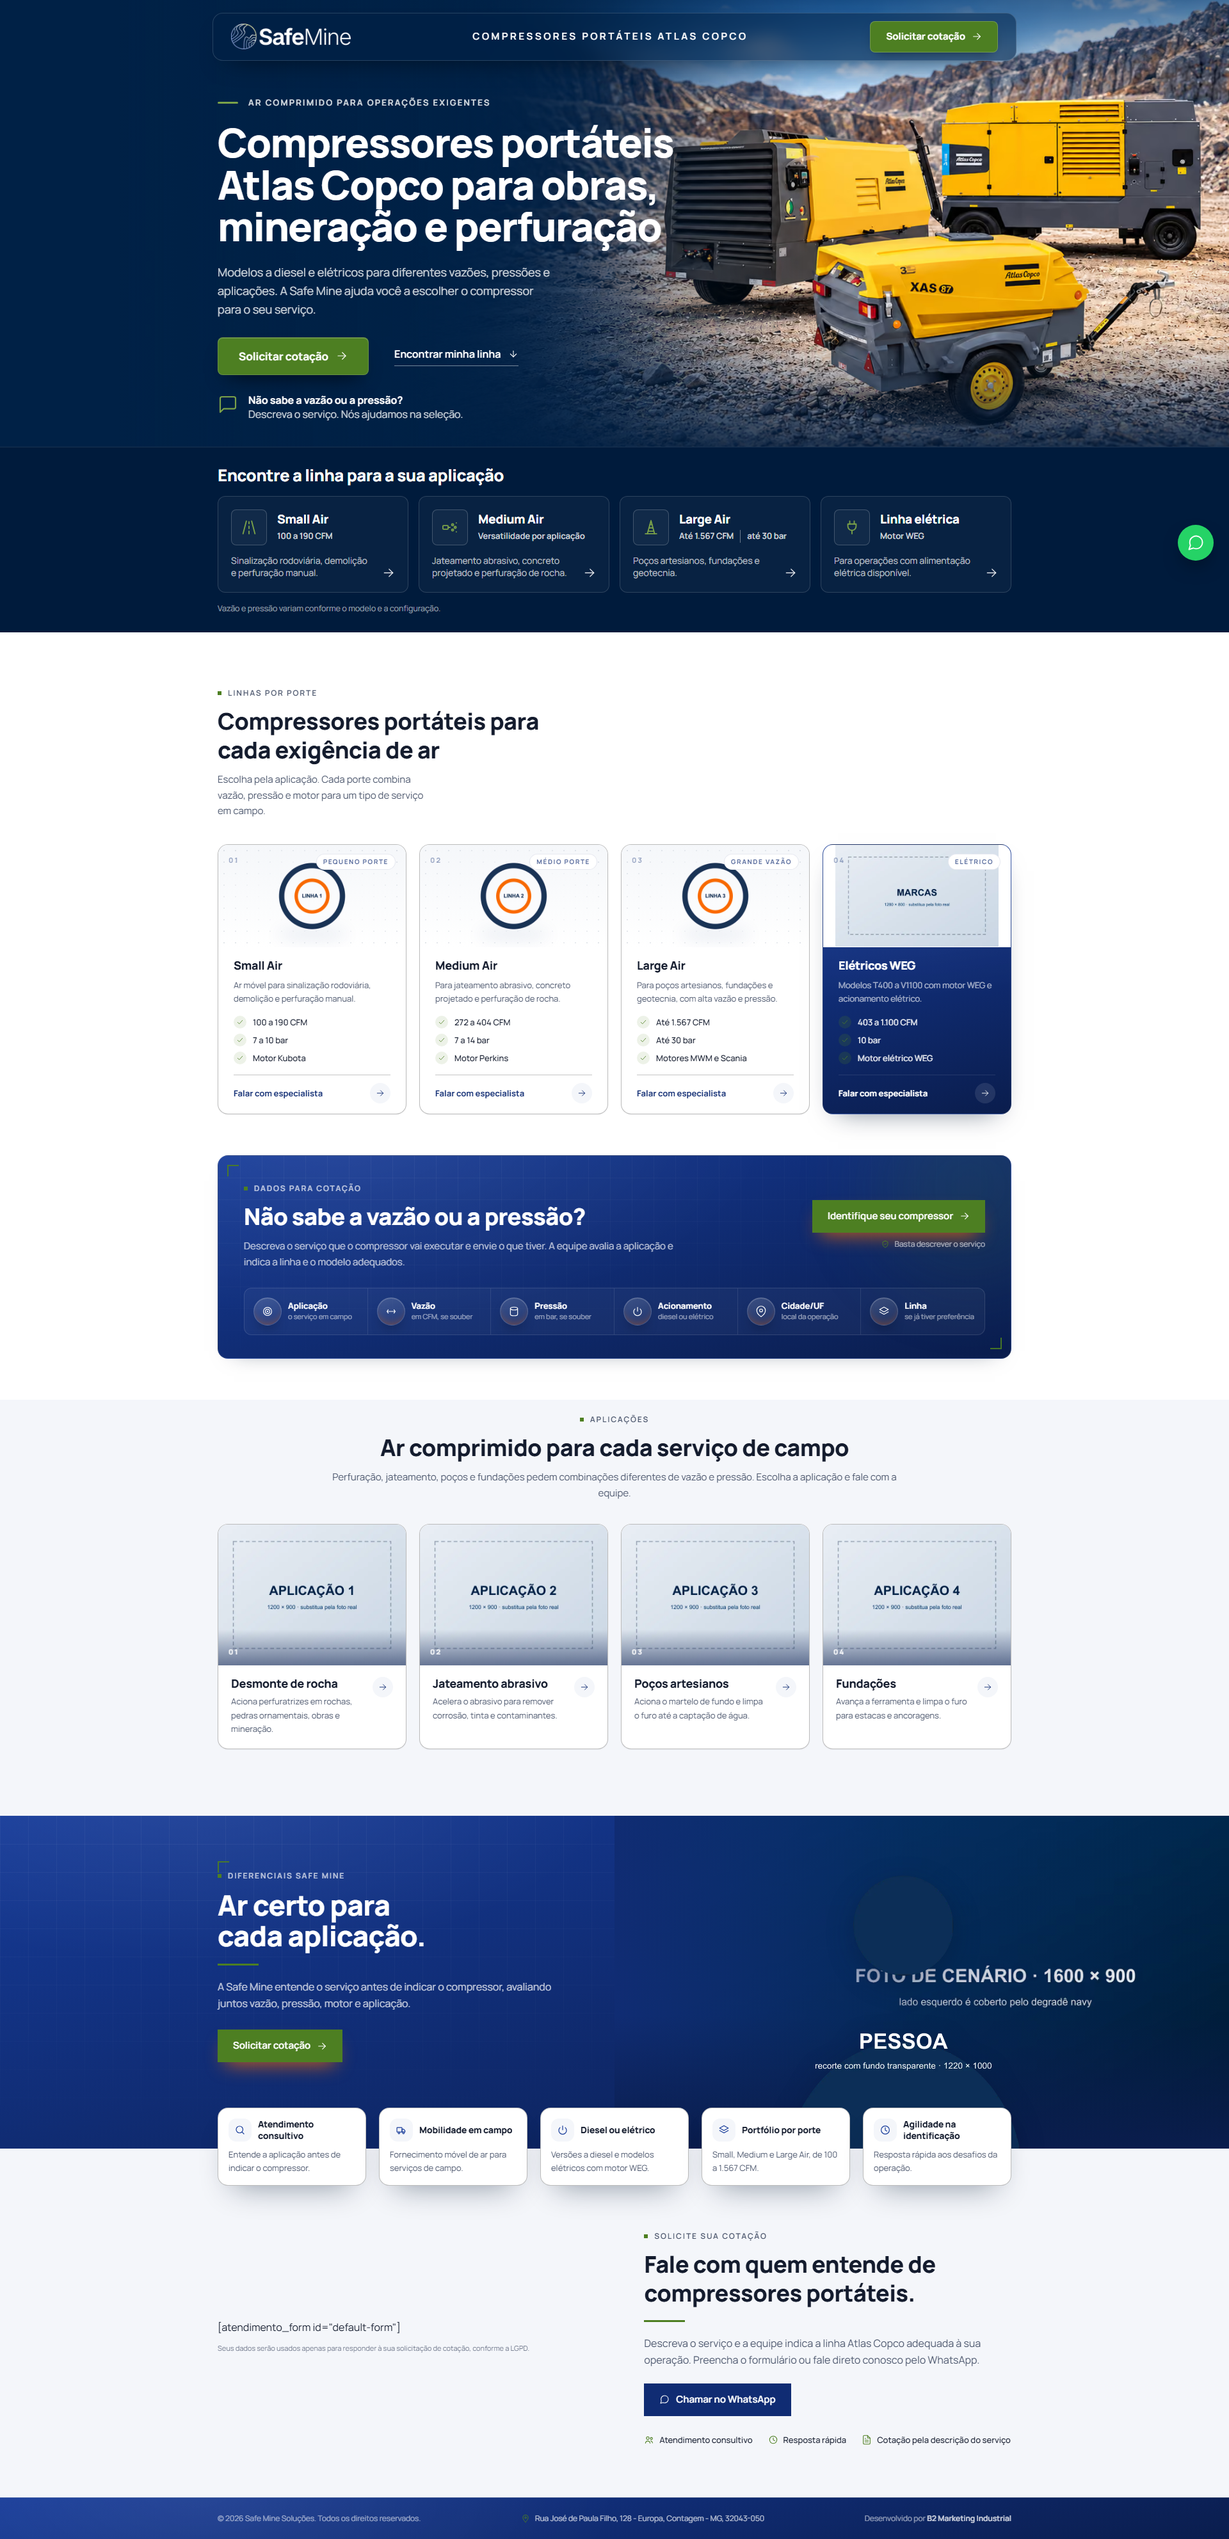
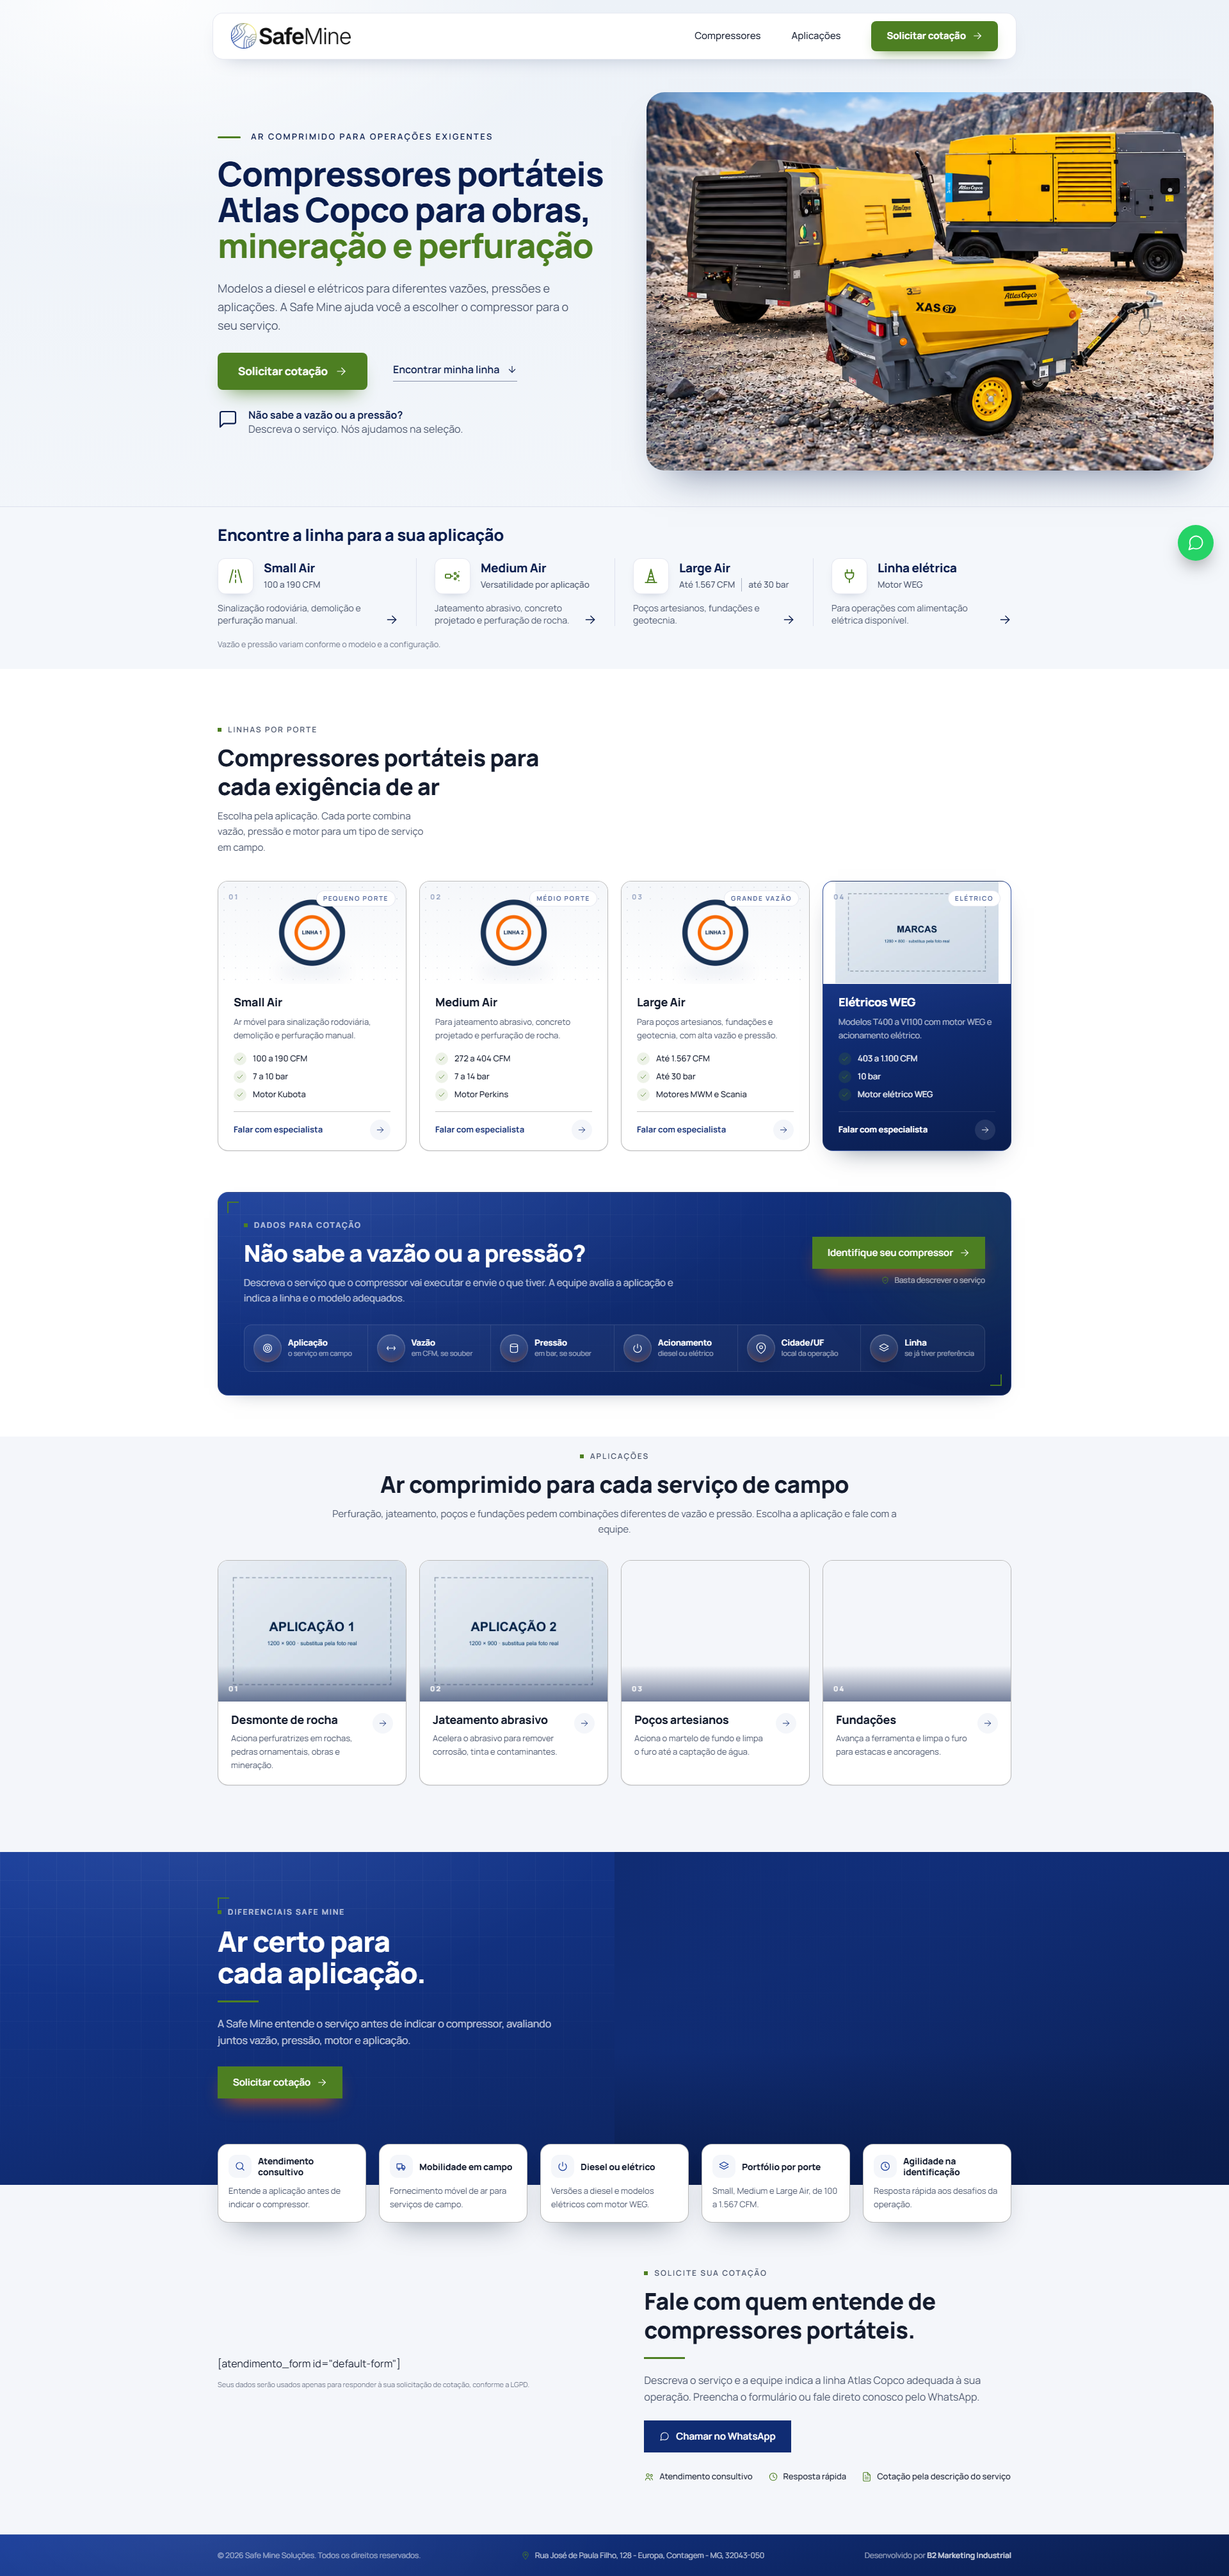
feat: topo da LP no tema claro do segundo mockup
Barra branca fixa com logo colorido, âncoras Compressores e Aplicações e CTA verde;
hero claro em duas colunas, com "mineração e perfuração" em verde no H1 e a foto
dos compressores em card arredondado (recorte do banner, sem o degradê navy);
faixa de linhas com divisórias. Preload do Layout com as larguras do card.
Desvio de estrutura fixa atualizado em docs/BRIEFING.md.

diff --git a/src/data/content.ts b/src/data/content.ts
@@ -47,7 +47,11 @@ export const cta = {
 /* ------------------------------------------------------------------ header */
 
 export const header = {
-  tagline: site.product,
+  /** Âncoras da barra (desvio do padrão, pedido no mockup de 29/10): rolam até as seções. */
+  nav: [
+    { id: 'compressores', label: 'Compressores', href: '#linhas' },
+    { id: 'aplicacoes', label: 'Aplicações', href: '#aplicacoes' },
+  ],
 } as const
 
 /* -------------------------------------------------------------------- hero */
@@ -55,10 +59,15 @@ export const header = {
 export const hero = {
   eyebrow: 'Ar comprimido para operações exigentes',
   title: `${site.product} para ${site.context}`,
+  /** Trecho do H1 em verde. */
+  highlight: 'mineração e perfuração',
   text: 'Modelos a diesel e elétricos para diferentes vazões, pressões e aplicações. A Safe Mine ajuda você a escolher o compressor para o seu serviço.',
   banner: {
     src: heroBg,
     alt: 'Compressores portáteis Atlas Copco em área de mineração',
+    /** Larguras geradas: as mesmas no <Picture> do Hero e no preload do Layout. */
+    widths: [480, 768, 1020],
+    sizes: '(min-width: 1024px) 46vw, 100vw',
   },
   help: {
     title: 'Não sabe a vazão ou a pressão?',
@@ -102,7 +111,8 @@ export const hero = {
   eyebrow: string
   title: string
   text: string
-  banner: Photo
+  highlight: string
+  banner: Photo & { widths: readonly number[]; sizes: string }
   help: { title: string; text: string }
   lines: {
     title: string

diff --git a/docs/BRIEFING.md b/docs/BRIEFING.md
@@ -100,10 +100,11 @@ Derivada em: 29/10/2026 · comando aplicado: `npm run compose -- linhas identifi
 
 ## Assets
 
-| Asset          | Arquivo esperado        | Especificação               | Status                                                                   |
-| -------------- | ----------------------- | --------------------------- | ------------------------------------------------------------------------ |
-| Logo           | `src/assets/LOGO.png`   | 240×200, fundo transparente | entregue — o mesmo da LP SEIVE (site da Safe Mine); usado no og:image    |
-| Banner do hero | `src/assets/heroBg.png` | 1981×891                    | entregue em 29/10 com o mockup (1870×841, ampliado para 1981 de largura) |
+| Asset         | Arquivo esperado                 | Especificação               | Status                                                                |
+| ------------- | -------------------------------- | --------------------------- | --------------------------------------------------------------------- |
+| Logo          | `src/assets/LOGO.png`            | 240×200, fundo transparente | entregue — o mesmo da LP SEIVE (site da Safe Mine); usado no og:image |
+| Logo da barra | `src/assets/marca-safe-mine.png` | 841×180, fundo transparente | recortado do logo do site da Safe Mine (8000×2081)                    |
+| Foto do hero  | `src/assets/heroBg.png`          | 1020×721 (card)             | recorte do banner entregue em 29/10 com o mockup                      |
 
 | Asset                       | Arquivo esperado                             | Especificação                 | Status                                     |
 | --------------------------- | -------------------------------------------- | ----------------------------- | ------------------------------------------ |
@@ -132,13 +133,15 @@ As fotos de produto e de aplicação citadas no briefing estão no PPT "Atlas Co
 
 ## Desvio de estrutura fixa — Header e Hero
 
-Em 29/10/2026 o topo da página foi refeito a partir do mockup enviado pela B2, no lugar do Header e do Hero do padrão (itens 4.1.1 e 4.1.2):
+Em 29/10/2026 o topo da página foi refeito a partir do mockup enviado pela B2 (segunda versão, tema claro), no lugar do Header e do Hero do padrão (itens 4.1.1 e 4.1.2):
 
-- **Header**: barra flutuante translúcida e fixa, com logo claro (`LOGO-light.png`), tagline central a partir de 1024 px e CTA verde "Solicitar cotação". A placa branca do logo saiu.
-- **Hero**: banner em largura total ancorado à direita, com fundo navy #002146 (a cor do lado esquerdo do banner); H1 no plural; link "Encontrar minha linha" que rola até `#linhas` (`data-cta="hero-secondary"`); bloco "Não sabe a vazão ou a pressão?"; e a faixa "Encontre a linha para a sua aplicação", com um card-CTA por linha (`hero-linha-small-air`, `hero-linha-medium-air`, `hero-linha-large-air`, `hero-linha-eletricos`).
+- **Header**: barra branca flutuante e fixa, com logo colorido (`marca-safe-mine.png`, recortado do logo do site), âncoras "Compressores" (`#linhas`) e "Aplicações" (`#aplicacoes`) e CTA verde "Solicitar cotação". Sem tagline nem placa do logo; o padrão proíbe menu, e o mockup o pede.
+- **Hero**: fundo claro, duas colunas — texto e foto em card arredondado que sangra até 24 px da borda da tela no desktop. H1 no plural com "mineração e perfuração" em verde; link "Encontrar minha linha" que rola até `#linhas` (`data-cta="hero-secondary"`); bloco "Não sabe a vazão ou a pressão?"; faixa "Encontre a linha para a sua aplicação" com um CTA por linha (`hero-linha-small-air`, `hero-linha-medium-air`, `hero-linha-large-air`, `hero-linha-eletricos`).
+- **Foto**: `heroBg.png` é um recorte (1020×721) do banner entregue com o mockup, só com a pedreira e os compressores. O banner inteiro (com o degradê navy) está no commit 2f75761. O `check:lp` avisa que ela não tem 1981×900 — a especificação do banner de tela cheia, que não se aplica ao card.
 - **Sem a coluna de 300 px do chat**: o shortcode do chat continua em `site.ts` e no `index.astro` gerado, mas o Hero não o renderiza. O formulário segue na Cotação.
 - **CTA primário** passa a "Solicitar cotação" em toda a página (era "Solicite sua cotação").
 - **`check:lp`**: as assinaturas de Header e Hero (A8) foram trocadas pelas da estrutura nova, para a verificação continuar valendo.
+- O mockup mostra o compressor XAS "saindo" do card pela base; isso pede um recorte do equipamento com fundo transparente e não foi feito.
 - Os 3 pontos do hero ficam na ficha (o validador exige), mas a página mostra no lugar a faixa das 4 linhas.
 
 Se este topo virar padrão, a mudança é no starter (template + `check-lp.mjs`), com versão nova.
